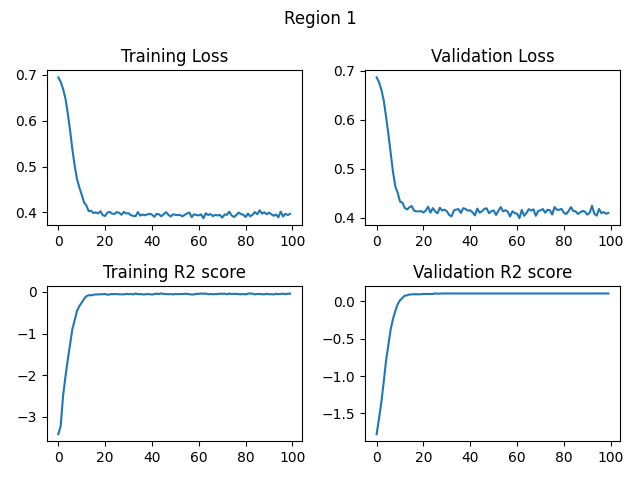
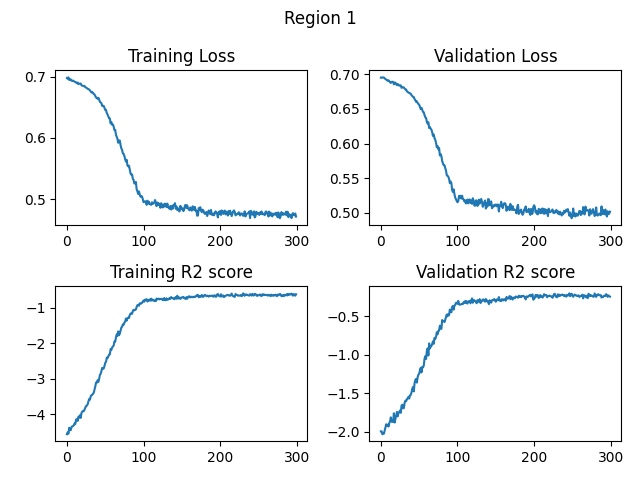
Vinh add code

diff --git a/train.py b/train.py
@@ -106,7 +106,7 @@ def run(dataloader, a1_freq_list, model_config, args, region, batch_size=1, epoc
     print("Number of learnable parameters:",count_parameters(model))
     loss_fn = nn.CrossEntropyLoss()
     optimizer = torch.optim.Adam(model.parameters(), lr=lr)
-    scheduler = torch.optim.lr_scheduler.StepLR(optimizer, step_size=100, gamma=0.1)
+    scheduler = torch.optim.lr_scheduler.StepLR(optimizer, step_size=100, gamma=0.01)
 
     _r2_score_list, loss_values = [], [] #train
     r2_test_list, test_loss_list = [], [] #validation
